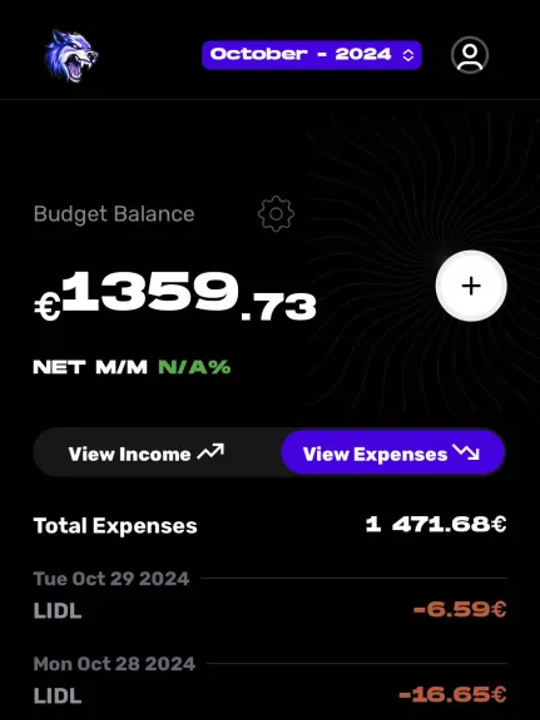
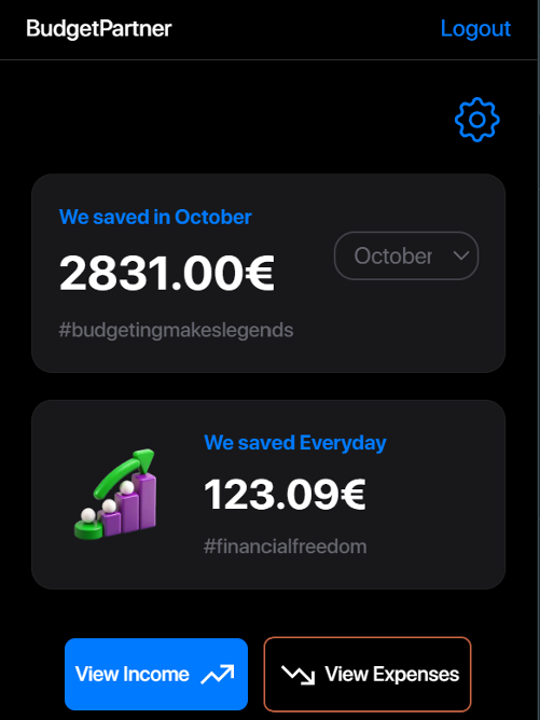
Revert branding update

diff --git a/src/routes/budget/index.tsx b/src/routes/budget/index.tsx
@@ -3,7 +3,6 @@ import { type NavigateFunction, useNavigate } from "react-router-dom";
 import ImageCopyright from "../../assets/copyright.webp";
 import ImagePattern from "../../assets/pattern.webp";
 import ImageTrustpilot from "../../assets/trustpilot.webp";
-import ImageLogo from "../../assets/logo.webp";
 import Extraexpenses from "../../components/Extraexpenses";
 import Extraincomes from "../../components/Extraincomes";
 import Switch from "../../components/Switch";
@@ -243,11 +242,9 @@ const Budget = (): ReactNode => {
 	return (
 		<div className="flex flex-col gap-y-16 animate__animated animate__slideInLeft animate__faster">
 			<nav className="animate__animated animate__fadeInDown animate__fast flex items-center justify-between px-8 py-3 border-b-[0.33px] border-b-[#454545]">
-				<img src={ImageLogo} alt="logo" width={40} />
-				{/*
 				<a href="/" className="text-xl text-white font-bold font-rubik">
 					BudgetPartner
-				</a> */}
+				</a>
 
 				{auth ? (
 					<div className="flex gap-x-4 items-center">
